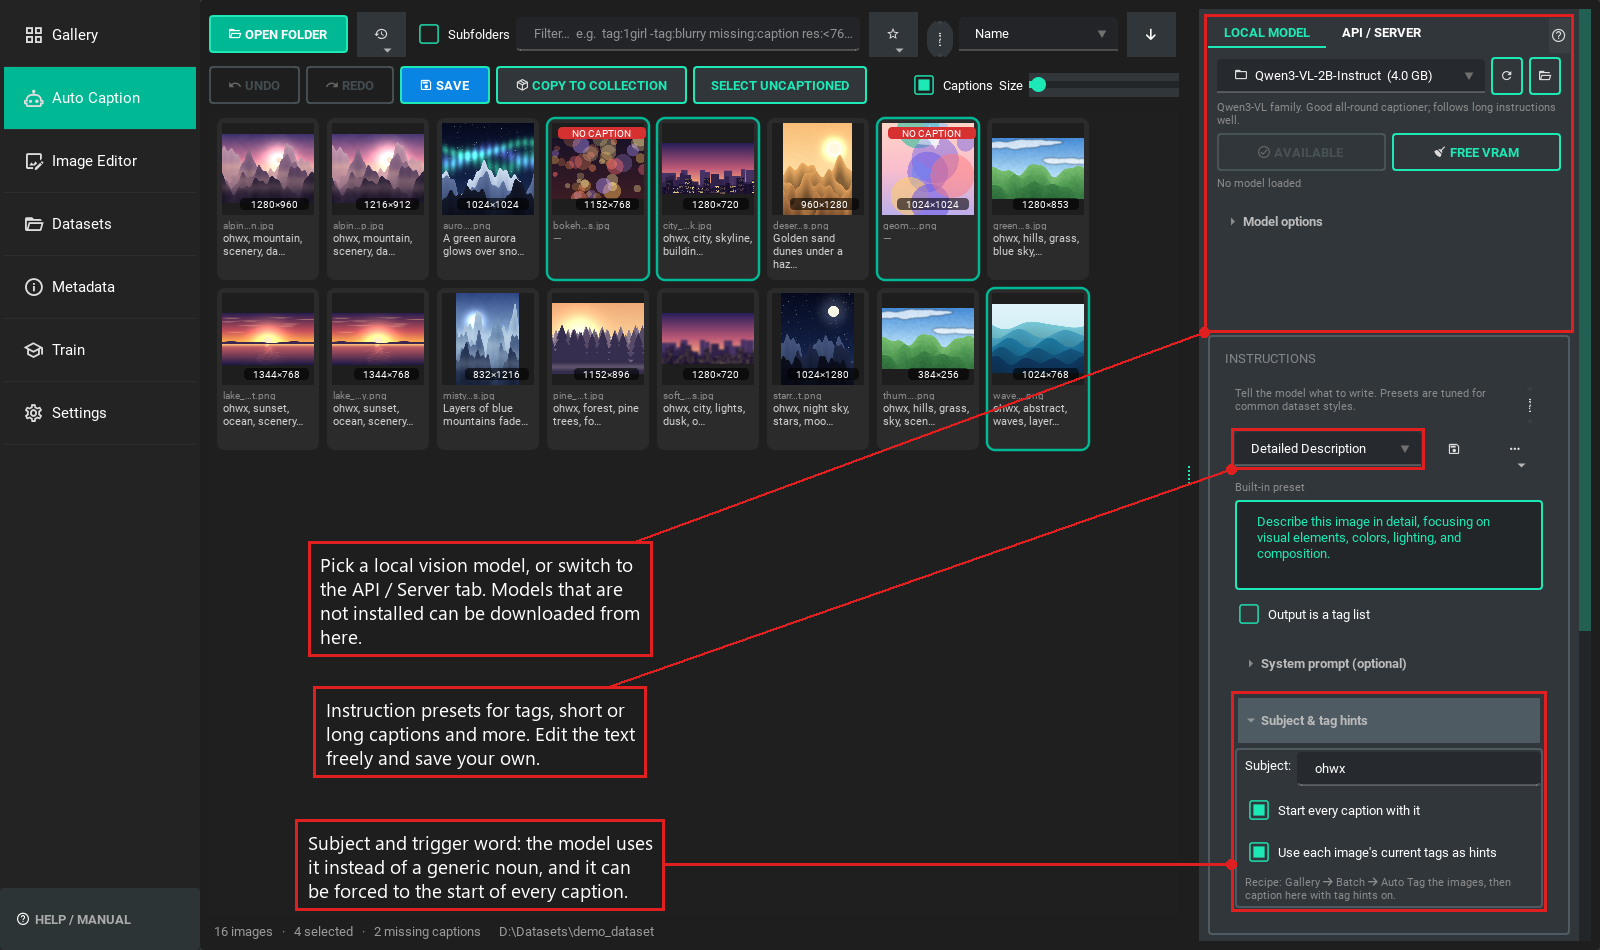
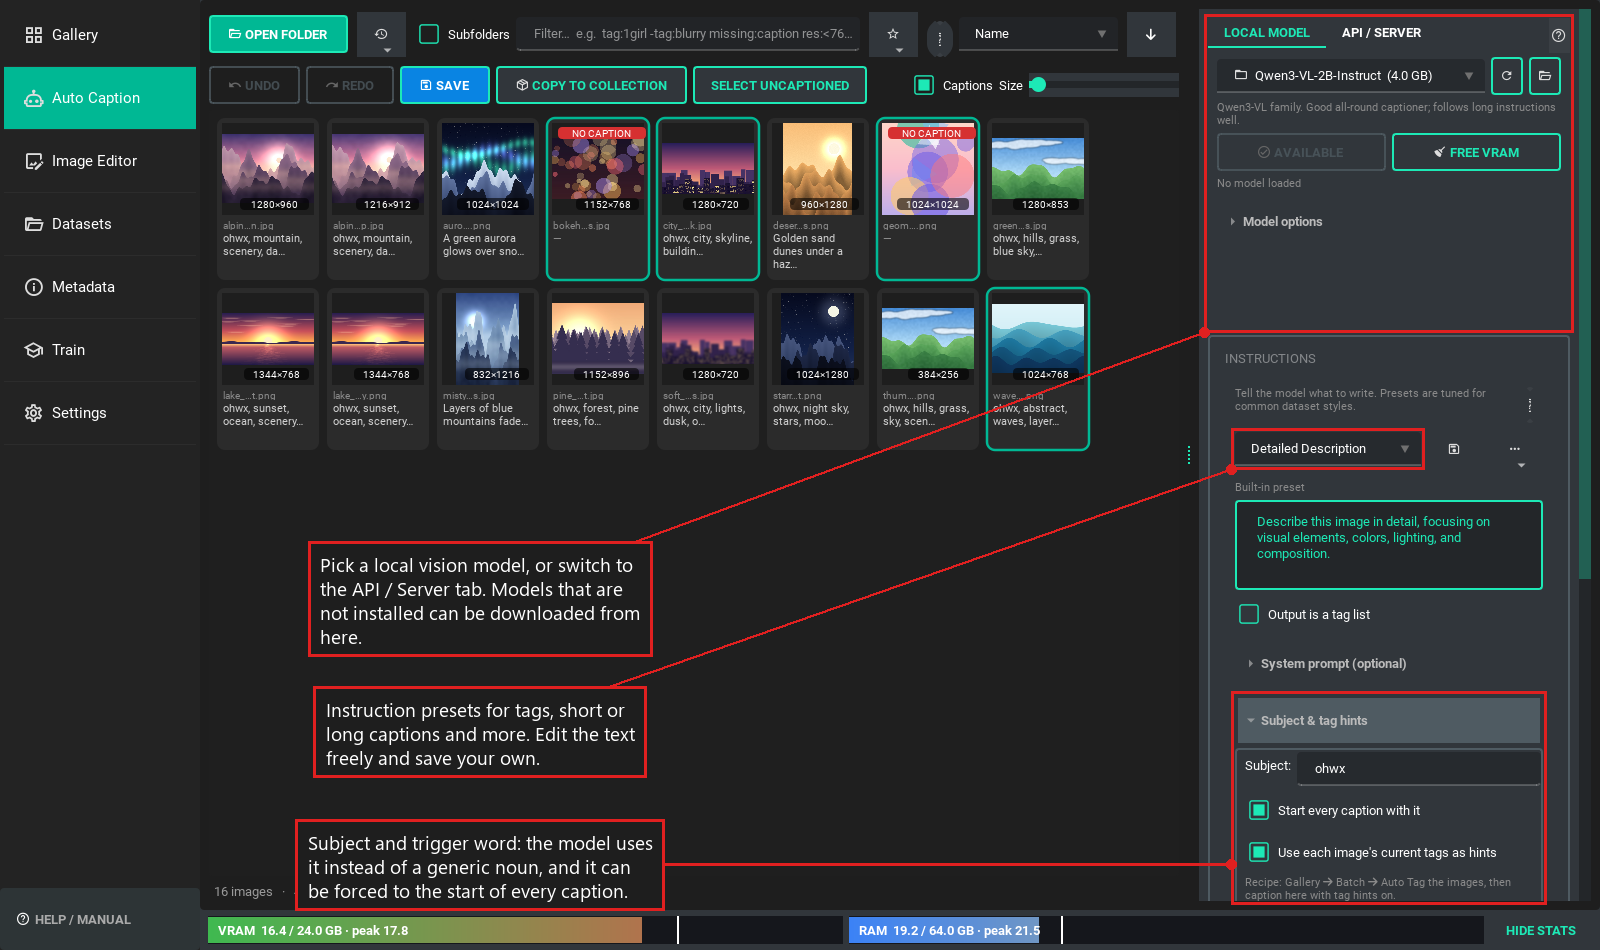
README and screenshots for the release
README: what's new, what has been run on real hardware, VRAM figures,
training troubleshooting, roadmap, contributing, fuller credits and the
single-machine test disclaimer. Screenshots regenerated with the memory bar
and its annotation.

Changed region(s): [[0.125, 0.9463, 1.0, 1.0], [0.9688, 0.6105, 1.0, 0.6716]]

diff --git a/tools/make_screenshots.py b/tools/make_screenshots.py
@@ -1461,6 +1461,8 @@ def build_shots() -> None:
              "Live status: epoch, step, speed and time remaining, read from the trainer's output.", (0.3, 0.3)),
         Note(g("tab_train.console"),
              "The full console output of the cache and training stages, also saved as run.log.", (0.3, 0.75)),
+        Note(lambda s: WINDOW.memory_strip.bar,
+             "VRAM and RAM in use, on every tab. The white mark is the peak of this run.", (0.3, 0.9)),
     ], after=reset_train))
     S(Shot("11_train_samples.png", shot_train_samples, [
         Note(g("tab_train.samples"),

diff --git a/README.md b/README.md
@@ -8,17 +8,74 @@ It runs natively on **AMD Radeon (ROCm, Windows and Linux)** and **NVIDIA (CUDA)
 
 ![Gallery](docs/screenshots/01_gallery.png)
 
+> **Tested on one machine.** This version was built and tested on Windows 11 with an AMD Radeon RX 7900 XT (20 GB) on
+> ROCm. The NVIDIA (CUDA), Linux and CPU paths are written to work and are covered by automated tests where that is
+> possible, but the author has no NVIDIA hardware to run them on. If something is wrong on your setup, please
+> [open an issue](#-contributing-and-feedback).
+
 ---
 
 ## Contents
 
+- [What's new](#-whats-new)
 - [Features](#-features)
 - [Installation](#-installation): [AMD Radeon](#amd-radeon-rocm) · [NVIDIA](#nvidia-cuda) · [Linux](#linux) · [No GPU](#no-gpu)
 - [Quick start](#-quick-start)
 - [Training a LoRA](#-training-a-lora)
 - [Your data is safe](#-your-data-is-safe)
 - [Troubleshooting](#-troubleshooting)
+- [Roadmap](#-roadmap)
+- [Contributing and feedback](#-contributing-and-feedback)
 - [Credits and licence](#-credits-and-licence)
+
+---
+
+## 🆕 What's new
+
+This release is a rebuild of TagScribeR 2.1. The old app was a set of separate tabs around a caption box; this one
+is a dataset studio with training built in.
+
+**A new foundation**
+
+- **Python 3.12, `uv` and current PyTorch**, with AMD's native ROCm wheels on Windows and Linux, CUDA on NVIDIA and
+  a CPU fallback. The installer detects your GPU and picks the build.
+- **One shared workspace.** The folder you open is open in every tab. The grid is virtualised, so thousands of images
+  scroll smoothly.
+- **Data safety everywhere.** Atomic caption saves with daily backups, undo and redo, deletes to the Recycle Bin,
+  copies that never overwrite, and API keys in the OS keychain instead of a file.
+- **Settings in `user_data\`**, which updates never touch. Old 2.1 settings, quick tags and API presets are imported.
+
+**Captioning**
+
+- **Current vision models** through Transformers 5 (Qwen3-VL, Qwen3.5, Gemma 4, JoyCaption and others), any
+  OpenAI-compatible server, and the WD v3 taggers.
+- **A review queue** with a word-level diff, so nothing an AI writes replaces your caption until you accept it.
+- **Caption recipes and presets:** a required subject or trigger word, existing tags as hints, your own presets.
+
+**Dataset tools**
+
+- **Search-style filters** with saved filters per folder, batch tag editing and tag statistics.
+- **Dataset health:** duplicates and near-duplicates, blur, low resolution and a bucket preview.
+- **Metadata tools:** a privacy audit, lossless cleanup, authorship templates and embedded prompts to captions.
+- **Image editor and export** built on the same workspace, with metadata-preserving edits.
+
+**Training (new)**
+
+- **Native LoRA training** inside the app, ported from the [Fizgig](https://github.com/shootthesound/Fizgig) trainer:
+  its presets, adaptive learning rate, per-image loss watch, EMA, pause and resume, previews and memory planning.
+- **Ten model families** across six architectures. See [Model families](#model-families).
+- **fp8, INT8 and 4-bit bases** chosen automatically from your free VRAM, with block swap as the last resort.
+- **A VRAM and RAM bar** under every tab, with a marker for the peak of the current run.
+- **A fix for streaked previews on AMD.** PyTorch's built-in attention gives wrong results on ROCm for the very wide
+  attention head inside image VAEs. That left bright horizontal streaks in previews and made cached latents slightly
+  inaccurate. TagScribeR computes that one layer itself. Measured on an RX 7900 XT against a CPU reference, the encode
+  error fell from about 0.04-0.06 to 0.005.
+
+**Everyday use**
+
+- **Ctrl+K command palette, a searchable Help Center** (F1 opens help for the current tab) and tooltips on every
+  control. A simple view for beginners and "Show all settings" for everything else.
+- **About 350 automated tests**, which never touch your GPU, so they are safe to run while you train.
 
 ---
 
@@ -222,9 +279,20 @@ Training runs as separate processes, so the app stays responsive and a crash can
 | SDXL 1.0, Pony Diffusion V6 XL, Illustrious-XL, NoobAI-XL (eps and v-pred) | Community starting points |
 | Anima | Community starting points |
 
-Training is new and every family is marked experimental until it has been proven on real runs. Fizgig has no code
-for the SDXL family or Anima, so their presets are community starting points, not measured recipes. Model weights
-are not included and have their own licences.
+**What has actually been run.** Krea 2 has been trained end to end on real weights on the author's RX 7900 XT: an
+fp8-scaled RAW checkpoint on the INT8 base, 60 images at 0.25 MP, with checkpoints, resume states and both preview
+engines. On that card its step speed matched Fizgig's (about 4.9 s per step in the first minutes of the same run in
+each trainer). **Every other family is experimental:** the code is ported and unit-tested on small random models, but
+nobody has trained it on real weights yet. Reports are very welcome.
+
+Fizgig has no code for the SDXL family or Anima, so their presets are community starting points, not measured
+recipes. Model weights are not included and have their own licences.
+
+### How much VRAM
+
+On the author's 20 GB card, Krea 2 on the INT8 base held about 13 GB in use and 17.5 GB reserved at 0.25 MP, and
+1024 x 1024 previews peaked at 19.5 GB. Training at 0.5 MP ran at the limit of the card. Watch the memory bar: if VRAM
+stays pinned at the top, training is spilling into system memory and each step gets much slower.
 
 ---
 
@@ -246,6 +314,19 @@ are not included and have their own licences.
 - **Qwen3.5 logs "falling back to its reference PyTorch implementation":** expected on ROCm. Output is correct. Use batch size 2 to 4, or Qwen3-VL for top speed.
 - **Out of GPU memory:** lower *Max image size*, use a smaller model, or close ComfyUI / Forge, which keep models in VRAM. A failed batch is retried one image at a time.
 - **Training falls back from AdamW 8-bit to AdamW:** bitsandbytes is missing. Run `update.bat`, which installs it.
+- **Training looks stuck at the start:** the first steps and the first preview are the slowest. The console says so
+  during the first two epochs. The status line above the console shows the live step, speed and ETA.
+- **Training is much slower than expected:** check the memory bar. VRAM pinned at the top means the card is full.
+  Lower *Target megapixels*, pick a smaller *Base precision*, or lower the preview size. Close other apps that hold
+  VRAM, and avoid running anything else on the GPU during a run.
+- **The same run is slower than in another trainer:** compare *Target megapixels* first. Twice the megapixels is far
+  more than twice the work per step.
+- **Latents are encoded again though nothing changed:** expected once after updating. Caches written before the VAE
+  attention fix are replaced.
+- **Preview images show faint horizontal streaks (AMD):** update. This was the VAE attention problem described under
+  [What's new](#-whats-new). If you still see it, please open an issue with a preview attached.
+- **The VRAM bar says "stats unavailable":** no reader works on this machine. On NVIDIA it uses NVML or `nvidia-smi`;
+  on AMD Windows a system performance counter; on AMD Linux `amd-smi` or `rocm-smi`.
 - **A model says it needs custom code:** enable *Allow custom model code* in Model options, but only for sources you trust.
 - **`install.bat` can't find Python 3.12:** install it from python.org (or `py install 3.12`) and run the installer again.
 
@@ -253,13 +334,70 @@ Developer notes: [docs/ARCHITECTURE.md](docs/ARCHITECTURE.md). Run the tests wit
 
 ---
 
+## 🗺 Roadmap
+
+Planned, roughly in this order. Nothing here is promised by a date.
+
+**Finishing the Fizgig port**
+
+- The remaining FLUX.2 Klein settings (dropout, LoRA+, extra schedulers, logging, the Distilled preview model).
+- The remaining Krea 2 features (the NVIDIA fp8 fast path, rotating full fine-tune, Turbo-checkpoint previews,
+  reference modules).
+- The remaining MiniMax H3 features (video clips, audio and voice, Turbo previews, 4-bit HQQ).
+- Fizgig's workbench tools: face-aware tools and face likeness compare first, then LoRA comparison and repair.
+- A tracker that follows Fizgig's repository, so its fixes and new model support can be picked up quickly.
+
+**Image editor**
+
+- A cleanup brush that removes unwanted objects, text overlays and marks from images you own or have the rights to,
+  with automatic detection of marked images in Dataset Health.
+- Background removal and replacement with clean edges (no halos or colour spill).
+- Smart crop to the subject at training bucket ratios, upscaling and restoration, and repeatable batch edit recipes.
+
+**Datasets and training**
+
+- A bucket preview and a "will this fit, and how long will it take" check before a run starts.
+- Dataset balance and caption consistency reports, find and replace across captions, and dataset versions tied to
+  the run that used them.
+- A guided first run, run comparison, a checkpoint tester across epochs, and a publish helper.
+
+**Support considerations**
+
+- NVIDIA, Linux and macOS need testers. See the note at the top of this page.
+- New model families are added as plug-in style packages under `training/families/`. Requests are welcome.
+
+Tell us what you want, and what you don't: [open an issue](https://github.com/ArchAngelAries/TagScribeR/issues).
+
+---
+
+## 🙌 Contributing and feedback
+
+Issues and pull requests are welcome, from bug reports to whole features.
+
+- **Found a bug?** [Open an issue](https://github.com/ArchAngelAries/TagScribeR/issues) with what you did, what
+  happened, and the report from *Settings → System & diagnostics → Copy report*. For training problems, attach the
+  run's `run.log`.
+- **Have an NVIDIA card or Linux?** A report that something works is as useful as a report that it doesn't.
+- **Want a feature, or think one is unnecessary?** Say so in an issue. The roadmap follows what people use.
+- **Sending a pull request?** Run the tests first (`venv\Scripts\python -m pytest`), and keep the notices in
+  [THIRD_PARTY_NOTICES.md](THIRD_PARTY_NOTICES.md) accurate if you bring in code from another project.
+
+Before sharing logs or screenshots, check them for folder names or anything else personal.
+
+---
+
 ## 🤝 Credits and licence
 
-- **Training engine:** ported from [Fizgig](https://github.com/shootthesound/Fizgig) (Apache-2.0, © 2026 Peter Neill), whose ROCm stack the environment also follows. See [THIRD_PARTY_NOTICES.md](THIRD_PARTY_NOTICES.md).
+- **Training engine:** ported from [Fizgig](https://github.com/shootthesound/Fizgig) (Apache-2.0, © 2026 Peter Neill), whose ROCm stack the environment also follows. TagScribeR's training would not exist without it. See [THIRD_PARTY_NOTICES.md](THIRD_PARTY_NOTICES.md).
+- **Code that Fizgig and TagScribeR build on:** [musubi-tuner](https://github.com/kohya-ss/musubi-tuner) and [sd-scripts](https://github.com/kohya-ss/sd-scripts) (kohya-ss), [ai-toolkit](https://github.com/ostris/ai-toolkit) (Ostris), [Diffusers](https://github.com/huggingface/diffusers) (Hugging Face), [FLUX](https://github.com/black-forest-labs/flux) (Black Forest Labs) and [ComfyUI](https://github.com/comfyanonymous/ComfyUI).
 - **GUI:** [PySide6](https://pypi.org/project/PySide6/), [qt-material](https://pypi.org/project/qt-material/), [QtAwesome](https://github.com/spyder-ide/qtawesome).
 - **AI backend:** [Hugging Face Transformers](https://huggingface.co/docs/transformers/index), [ONNX Runtime](https://onnxruntime.ai/), [WD Taggers](https://huggingface.co/SmilingWolf).
 - **AMD support:** [ROCm for Windows](https://github.com/ROCm/TheRock).
 
 **Licence:** TagScribeR is free software under the [GNU General Public License v3.0](LICENSE). Use it, change it and share it freely; if you redistribute it or a modified version, keep the source open under the same licence. The licence covers the program only: the LoRAs, captions and images you make with it are yours. Code adapted from other projects keeps its original notices in [THIRD_PARTY_NOTICES.md](THIRD_PARTY_NOTICES.md). Model weights are not included and have their own licences.
 
-Created by **ArchAngelAries**. Code assisted by Google's Gemini and Anthropic's Claude.
+Created by **ArchAngelAries**.
+
+**Acknowledgement.** The rebuild in this release (the shared workspace, the captioning and dataset tools, the port of
+Fizgig's training engine, the tests and this documentation) was written with Anthropic's **Claude Opus 5.5** working
+alongside the author. Earlier versions were assisted by Google's Gemini and Anthropic's Claude.
